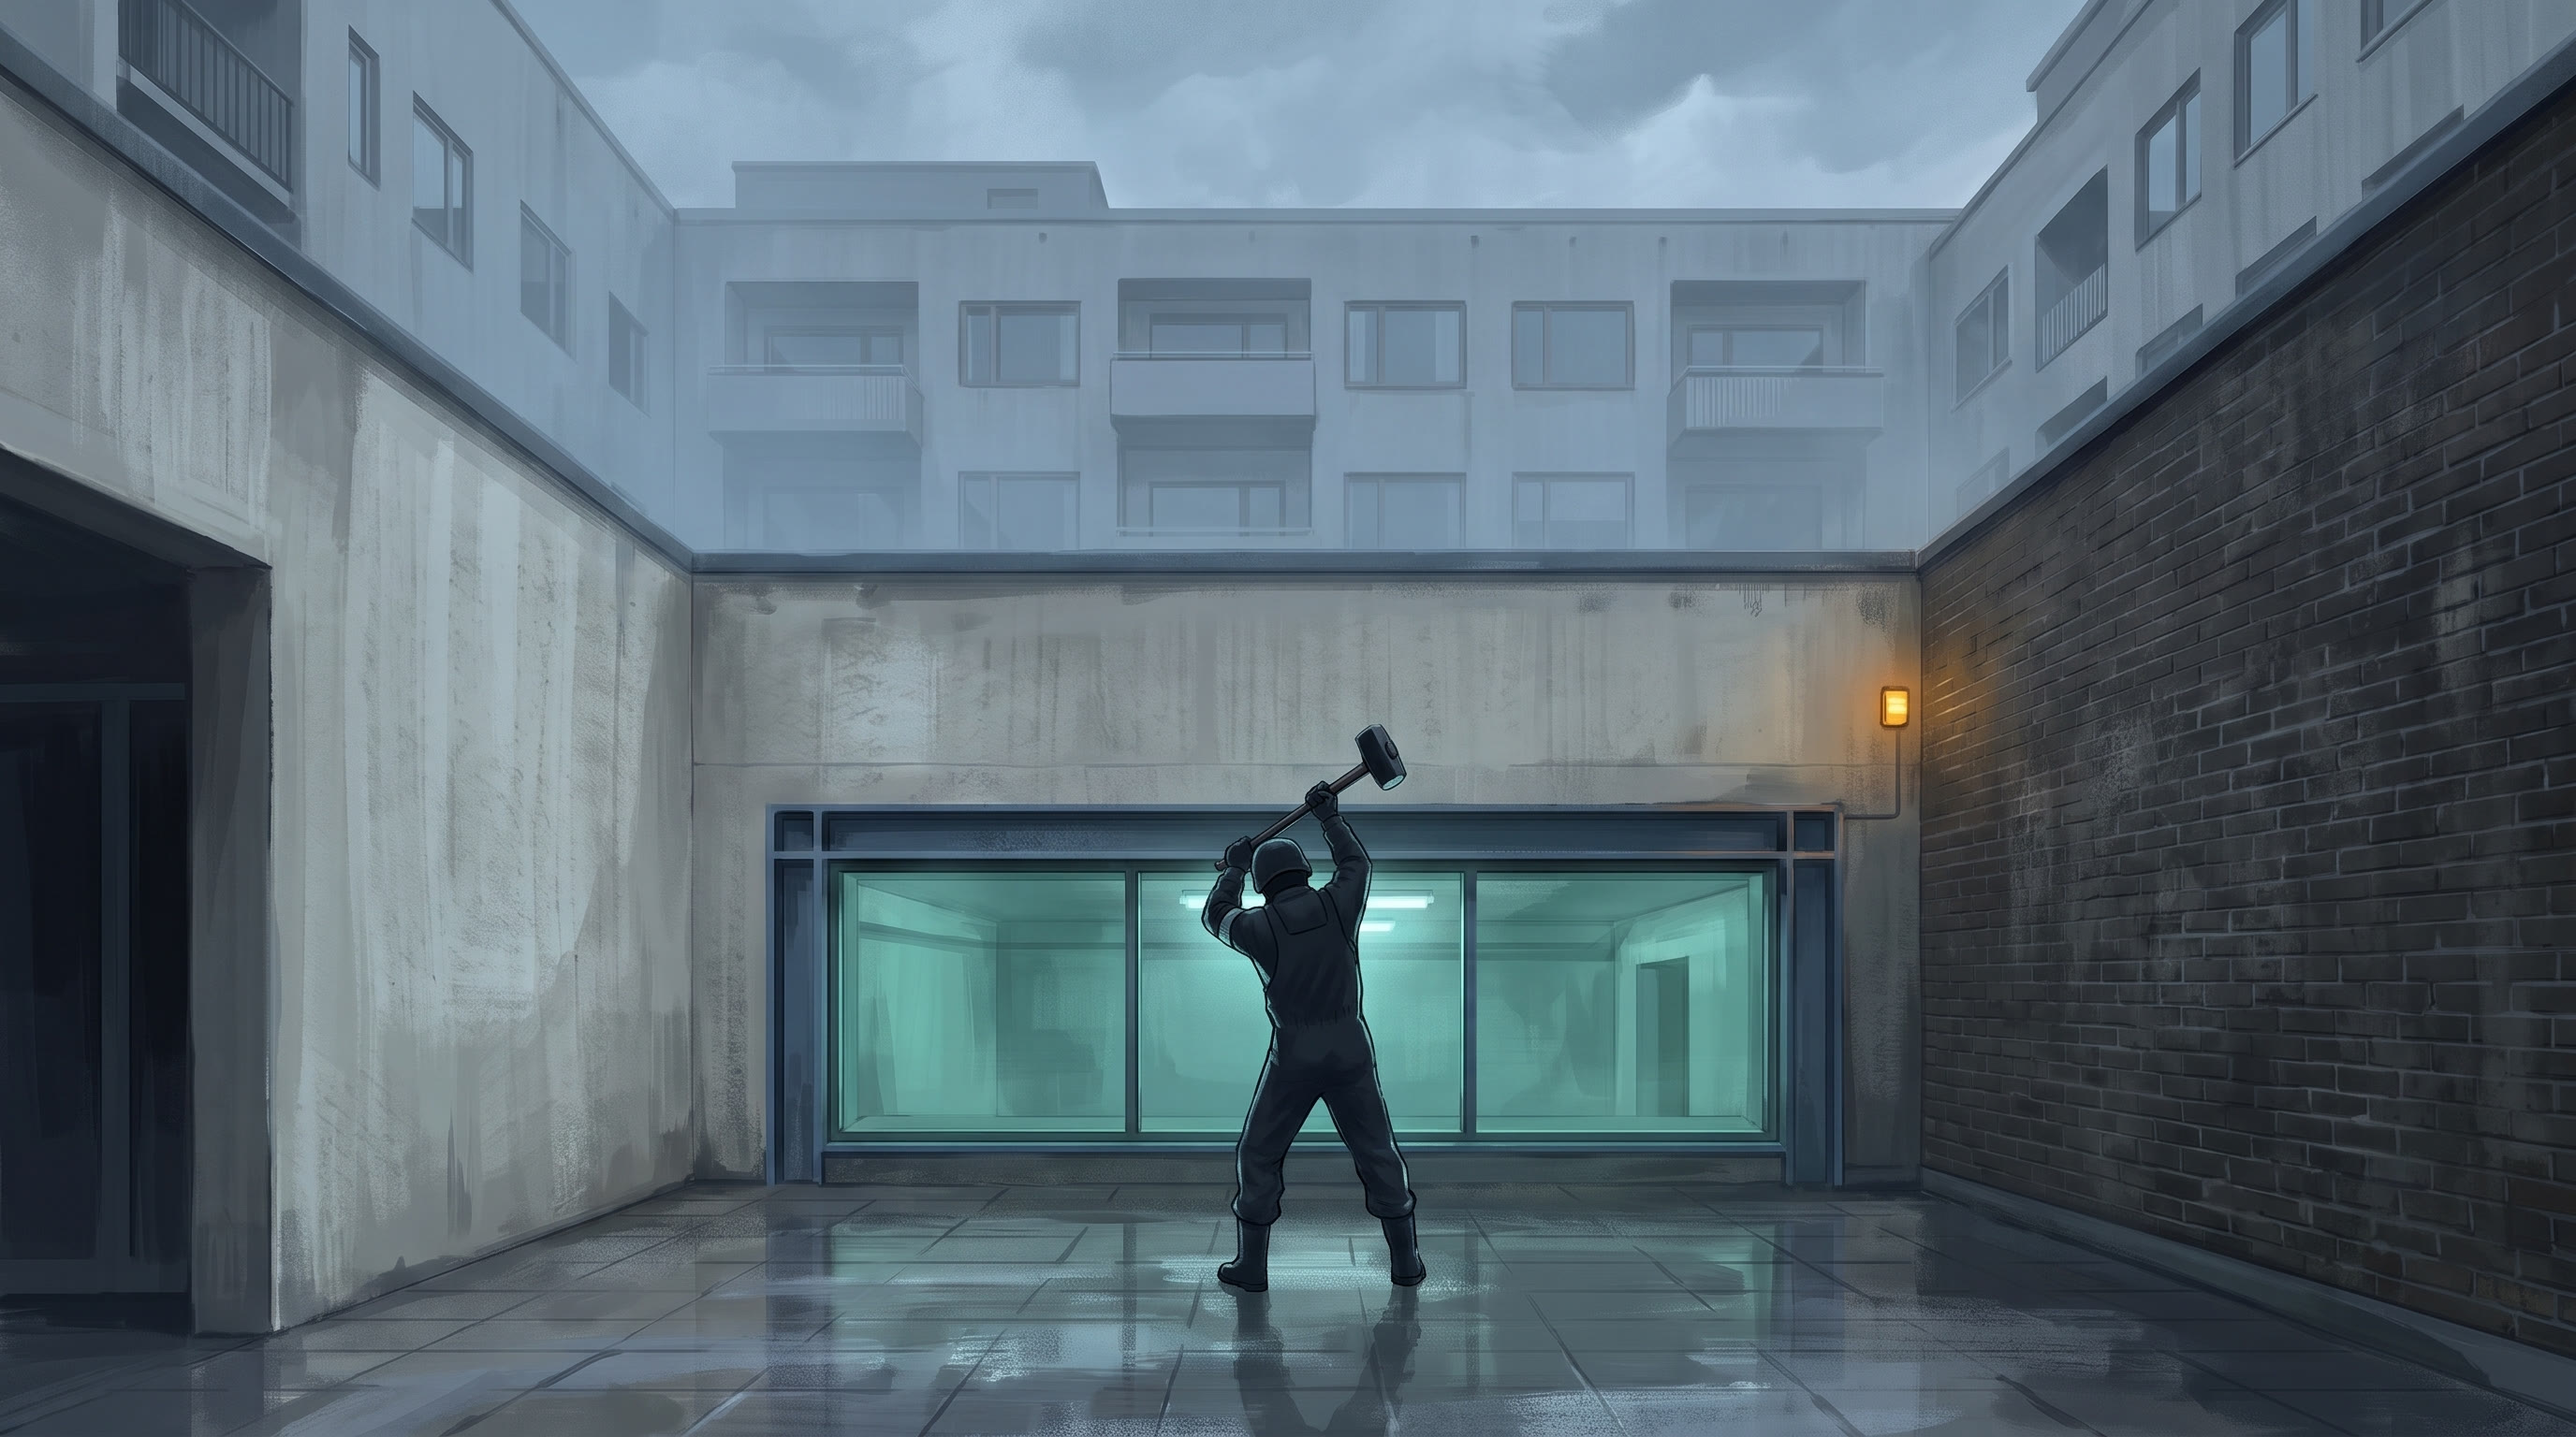
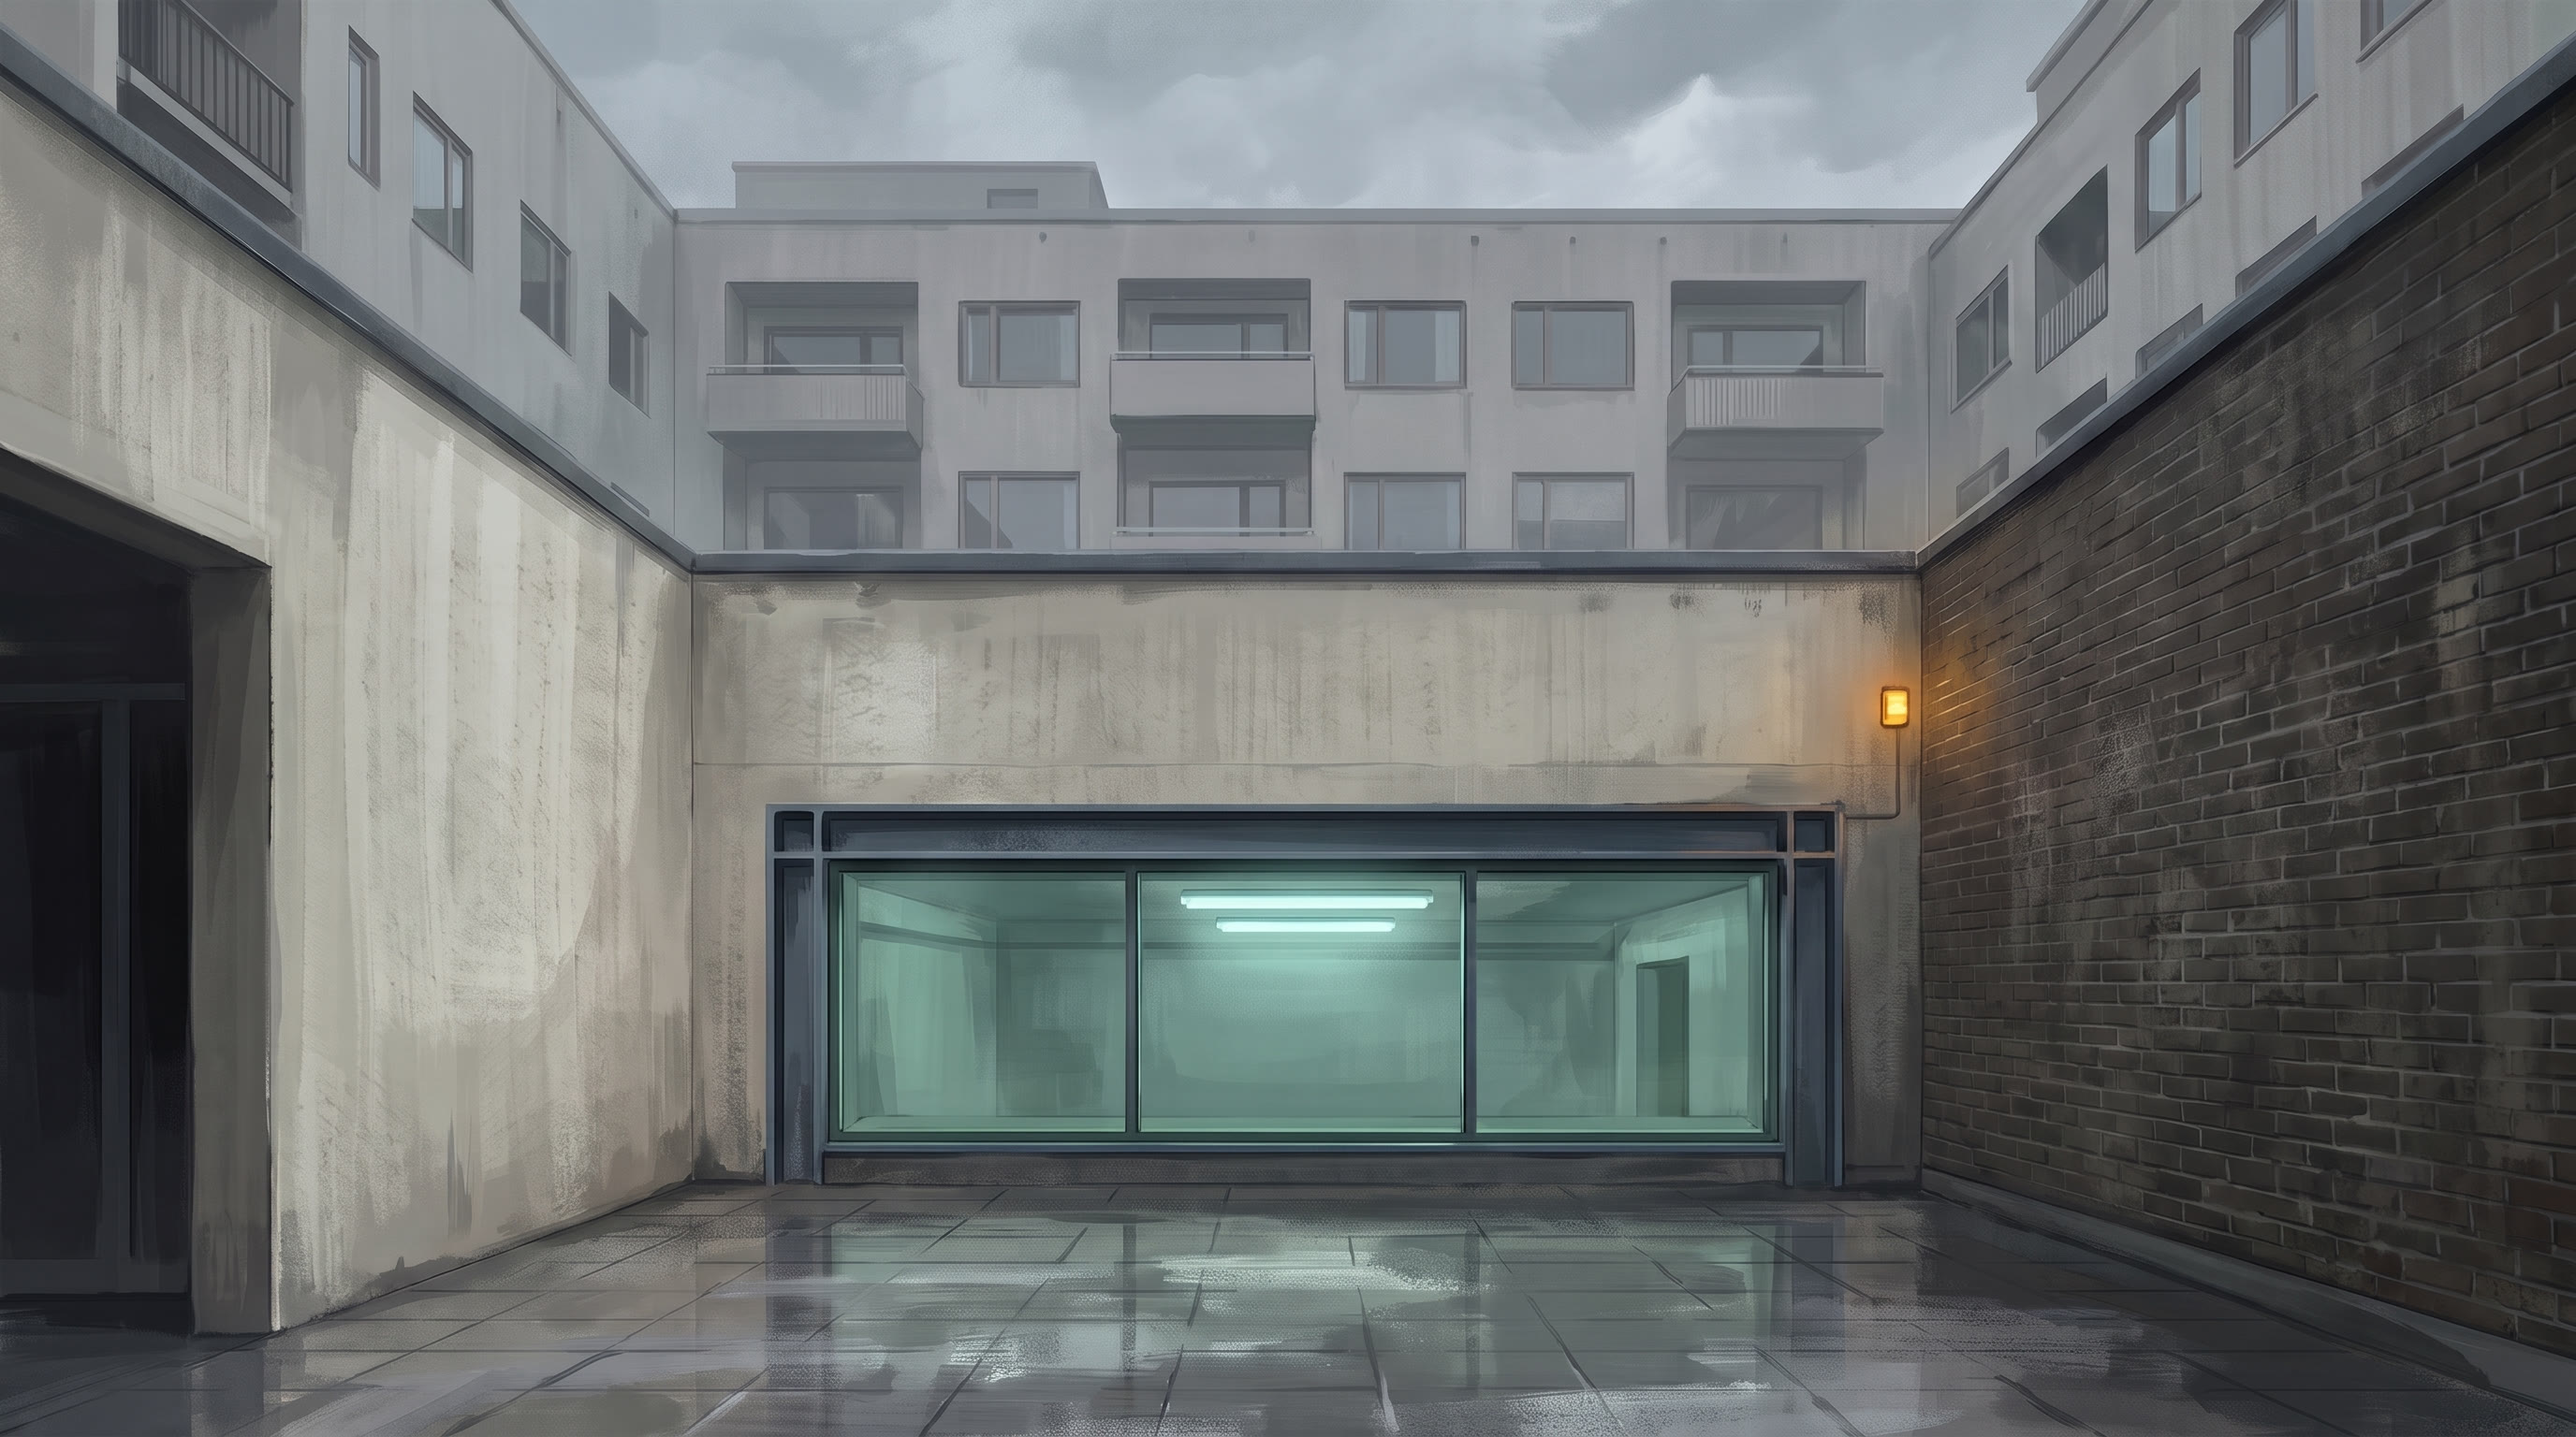
Stills: scene 1 renumbered to script shot numbers; stills animatic build script
Claude-Session: https://claude.ai/code/session_01AdS68Yi9NYhiPVMHzjRTYU

diff --git a/THE_GLASS/09_DELIVERABLES/tools/build_stills_animatic.py b/THE_GLASS/09_DELIVERABLES/tools/build_stills_animatic.py
@@ -1,0 +1,169 @@
+"""Stills animatic: lay the approved shot stills on the v008 timeline with slow camera moves, under the full sound mix.
+
+Timeline = same as mix_sound_v008.py (4 s card, per-scene slots from Atlas chunk lengths).
+Usage: python -I build_stills_animatic.py THE_GLASS_ROOT
+Output: 09_DELIVERABLES/animatic_stills_v008/THE_GLASS_stills_animatic_v008.mp4
+"""
+import os
+import re
+import subprocess
+import sys
+
+ROOT = os.path.abspath(sys.argv[1])
+FPS, W, H = 24, 1280, 720
+CARD, LEAD = 4.0, 1.0
+SCRIPT = os.path.join(ROOT, "01_SCRIPT_STORYBOARD/revised/THE_GLASS_script_v008.md")
+ATLAS = os.path.join(ROOT, "07_AUDIO/atlas_v008")
+STILLS = os.path.join(ROOT, "02_VISUAL_DEVELOPMENT/shot_stills_v001/final_jpg")
+MIX = os.path.join(ROOT, "07_AUDIO/mix_v008/THE_GLASS_mix_v008.flac")
+OUT = os.path.join(ROOT, "09_DELIVERABLES/animatic_stills_v008")
+TMP = os.path.join(OUT, "clips")
+os.makedirs(TMP, exist_ok=True)
+FONT = "/usr/share/fonts/truetype/dejavu/DejaVuSans.ttf"
+FONTB = "/usr/share/fonts/truetype/dejavu/DejaVuSerif-Bold.ttf"
+
+
+def dur(p):
+    return float(subprocess.run(["ffprobe", "-v", "error", "-show_entries", "format=duration", "-of", "csv=p=0", p],
+                                capture_output=True, text=True, check=True).stdout)
+
+
+# ---- timeline (identical rule to the mix) -----------------------------------------------------------------------
+scene_re = re.compile(r"^#### Scene (\d+) · (.+?) \((\d+):(\d+)–(\d+):(\d+)\)")
+slots = {}
+for line in open(SCRIPT, encoding="utf-8"):
+    if m := scene_re.match(line):
+        n, _, a, b, c, d = m.groups()
+        slots[int(n)] = (int(c) * 60 + int(d)) - (int(a) * 60 + int(b))
+length, s17_sil = {}, None
+for n in sorted(slots):
+    one = os.path.join(ATLAS, f"S{n:02d}.mp3")
+    if os.path.isfile(one):
+        used = LEAD + dur(one)
+    else:
+        a = dur(os.path.join(ATLAS, f"S{n:02d}a.mp3"))
+        used = LEAD + a + 6.0 + dur(os.path.join(ATLAS, f"S{n:02d}b.mp3"))
+        s17_sil = LEAD + a
+    length[n] = max(slots[n], used + 0.5)
+
+
+def S(name):
+    return ("img", os.path.join(STILLS, name + ".jpg"))
+
+
+def card(text, big=False, color="black", fg="white"):
+    return ("card", text, big, color, fg)
+
+
+PORTRAIT = card("[ Portrait of Arne Sigve Klungland ]\\nwaiting for the family's answer", False, "0x1a1a1e", "0x9a9aa0")
+
+# Each scene: list of (item, seconds or None=share the rest equally, extras)
+PLAN = {
+    1: [(card("Stavanger, Norway  ·  Monday 5 April 2004  ·  08:02"), 3.0), (S("S01_03"), 6.0), (S("S01_04"), 5.0),
+        (S("S01_02"), 10.0), (S("S01_05"), 3.6), (card(""), 2.9), (card("THE GLASS", True), None)],
+    2: [(S("S02_01"), None), (S("S02_03"), None)],
+    3: [(S("S03_01"), None), (S("S03_02"), None)],
+    4: [(S("S04_01"), None), (S("S04_02"), None)],
+    5: [(S("S05_01"), 13.0), (S("S05_02"), None, "Kjell Alrich Schumann, to NRK (2024)")],
+    6: [(S("S06_01"), None)],
+    7: [(S("S07_01"), 11.0), (S("S07_02"), 12.0), (S("S07_31"), 6.0), (S("S07_32"), 6.0), (S("S07_33"), 6.0), (S("S07_04"), None)],
+    8: [(S("S08_01"), None), (S("S08_02"), None), (S("S08_03"), None)],
+    9: [(S("S09_01"), None), (S("S09_02"), None), (S("S09_03"), None), (PORTRAIT, None), (S("S09_05"), None)],
+    10: [(S("S10_01"), None), (S("S10_02"), None), (S("S10_03"), None), (S("S10_04"), None)],
+    11: [(S("S11_01"), 15.0, "Erik Håland, to NRK (2024)"), (S("S10_02"), None)],
+    12: [(S("S12_01"), 6.5), (S("S12_02"), None)],
+    13: [(S("S13_01"), 8.0), (S("S13_02"), 13.5, "COUNT113"), (card(""), 1.5), (S("S13_04"), None)],
+    14: [(S("S14_01"), None), (S("S14_02"), None), (card("08:08"), 2.0), (S("S14_04"), None)],
+    15: [(S("S15_01"), None), (S("S15_02"), None), (S("S15_03"), None)],
+    16: [(S("S16_01"), 14.0), (S("S16_02"), 12.0), (S("S16_03"), None, "as recounted to NRK (2024)")],
+    17: [(S("S17_01"), 8.0), (S("S17_02"), "SIL"), (card("", False, "white"), 6.0), (S("S17_04"), None)],
+    18: [(S("S18_01"), None), (S("S18_02"), None), (S("S18_03"), None), (S("S18_04"), None)],
+    19: [(S("S19_01"), None), (S("S19_02"), None), (PORTRAIT, None)],
+    20: [(S("S20_01"), None), (S("S20_02"), None), (S("S14_02"), None)],
+    21: [(S("S21_01"), None), (S("S21_02"), None), (card("Oslo  ·  Madrid  ·  Málaga"), 4.0)],
+    22: [(card("5 April 2005"), 3.0), (S("S22_02"), None), (S("S22_03"), None), (S("S22_04"), None)],
+    23: [(S("S23_01"), None)],
+    24: [(S("S24_01"), None, "FADEOUT")],
+}
+
+clips = []
+k = 0
+
+
+def render(item, secs, extra, move):
+    global k
+    k += 1
+    out = os.path.join(TMP, f"c{k:03d}.mp4")
+    frames = max(1, round(secs * FPS))
+    secs = frames / FPS
+    if item[0] == "img":
+        if move % 3 == 0:
+            z, x, y = "1+0.07*on/{d}", "iw/2-(iw/zoom/2)", "ih/2-(ih/zoom/2)"
+        elif move % 3 == 1:
+            z, x, y = "1.08", "(iw-iw/zoom)*on/{d}", "ih/2-(ih/zoom/2)"
+        else:
+            z, x, y = "1.08-0.06*on/{d}", "iw/2-(iw/zoom/2)", "ih/2-(ih/zoom/2)"
+        z, x = z.format(d=frames), x.format(d=frames)
+        vf = f"scale=2560:1440,zoompan=z='{z}':x='{x}':y='{y}':d={frames}:s={W}x{H}:fps={FPS},setsar=1"
+        inp = ["-loop", "1", "-i", item[1]]
+    else:
+        _, text, big, color, fg = item
+        vf = "setsar=1"
+        if text:
+            fs = 64 if big else 34
+            ff = FONTB if big else FONT
+            lines = text.split("\\n")
+            for i, ln in enumerate(lines):
+                yy = f"(h/2)-{(len(lines) - 1) * 26}+{i * 52}-text_h/2"
+                vf += f",drawtext=fontfile={ff}:text='{ln.replace(':', chr(92) + ':')}':fontsize={fs}:fontcolor={fg}:x=(w-text_w)/2:y={yy}"
+        inp = ["-f", "lavfi", "-i", f"color=c={color}:s={W}x{H}:r={FPS}"]
+    if extra and extra.startswith("COUNT"):
+        n = int(extra[5:])
+        vf += (f",drawtext=fontfile={FONTB}:text='%{{eif\\:min({n}\\,floor(t*{n}/{secs - 1:.2f}))\\:d}}':"
+               f"fontsize=46:fontcolor=white@0.85:x=w-text_w-40:y=36")
+    elif extra == "FADEOUT":
+        vf += f",fade=t=out:st={max(0, secs - 2.5):.2f}:d=2.5"
+    elif extra:
+        vf += (f",drawtext=fontfile={FONT}:text='{extra}':fontsize=24:"
+               f"fontcolor=white:box=1:boxcolor=black@0.55:boxborderw=10:x=50:y=h-80")
+    subprocess.run(["ffmpeg", "-nostdin", "-v", "error", "-y", *inp, "-vf", vf, "-frames:v", str(frames), "-r", str(FPS),
+                    "-c:v", "libx264", "-preset", "veryfast", "-crf", "20", "-pix_fmt", "yuv420p", out], check=True)
+    clips.append(out)
+    return secs
+
+
+total = 0.0
+total += render(card("A dramatised reconstruction of real events.\\nIllustrations are AI-assisted and the narration voice is synthetic.\\nQuotes are from published interviews."), CARD, None, 0)
+move = 0
+for n in sorted(PLAN):
+    L = length[n]
+    items = PLAN[n]
+    fixed = 0.0
+    for it in items:
+        if isinstance(it[1], (int, float)):
+            fixed += it[1]
+        elif it[1] == "SIL":
+            fixed += s17_sil - 8.0
+    free = [it for it in items if it[1] is None]
+    share = (L - fixed) / len(free) if free else 0
+    scene_t = 0.0
+    for idx, it in enumerate(items):
+        secs = it[1] if isinstance(it[1], (int, float)) else (s17_sil - 8.0 if it[1] == "SIL" else share)
+        if idx == len(items) - 1:
+            secs = L - scene_t  # absorb rounding
+        extra = it[2] if len(it) > 2 else None
+        got = render(it[0], secs, extra, move)
+        scene_t += got
+        move += 1
+    total += scene_t
+    print(f"scene {n:2d}: {len(items)} items, {scene_t:.2f}/{L:.2f} s", flush=True)
+
+lst = os.path.join(TMP, "list.txt")
+with open(lst, "w") as fh:
+    fh.writelines(f"file '{c}'\n" for c in clips)
+silent = os.path.join(OUT, "video_only.mp4")
+subprocess.run(["ffmpeg", "-nostdin", "-v", "error", "-y", "-f", "concat", "-safe", "0", "-i", lst, "-c", "copy", silent], check=True)
+final = os.path.join(OUT, "THE_GLASS_stills_animatic_v008.mp4")
+subprocess.run(["ffmpeg", "-nostdin", "-v", "error", "-y", "-i", silent, "-i", MIX, "-map", "0:v", "-map", "1:a", "-c:v", "copy",
+                "-c:a", "aac", "-b:a", "192k", "-shortest", "-movflags", "+faststart", final], check=True)
+print(f"video {total:.1f} s; WROTE {final}")

diff --git a/THE_GLASS/02_VISUAL_DEVELOPMENT/shot_stills_v001/README.md b/THE_GLASS/02_VISUAL_DEVELOPMENT/shot_stills_v001/README.md
@@ -1,7 +1,7 @@
 # Shot stills v001 (script v008)
 
 **Model:** Higgsfield `nano_banana_2_1`, 2k, 16:9. The approved style references (`../style_refs_v001`) were passed as image references for consistency.
-**Count:** 63 final stills (`final_jpg/S<scene>_<shot>.jpg`). **Cost:** 134 credits (67 generations at 2 credits each, including 3 redos and the 2 extra stills for the chairs shot).
+**Count:** 63 final stills (`final_jpg/S<scene>_<shot>.jpg`, numbered as in script v008; the chairs shot 7.3 has three stills, S07_31 to S07_33). **Cost:** 134 credits (67 generations at 2 credits each, including 3 redos and the 2 extra stills for the chairs shot).
 **Masters:** the full-resolution PNGs are not in git (465 MB). Every one can be re-downloaded from the Higgsfield history using the job IDs in `jobs.tsv`. `final_map.tsv` shows which generation became each final still.
 
 **Not made, on purpose:**
